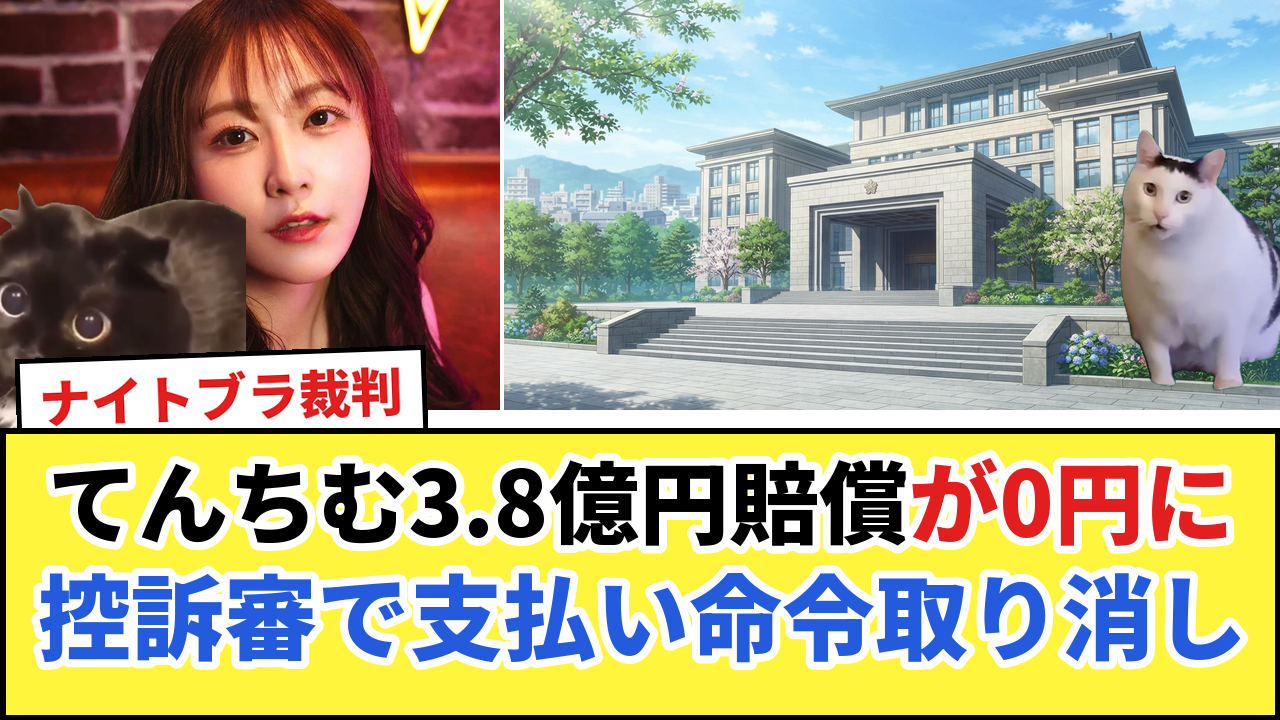
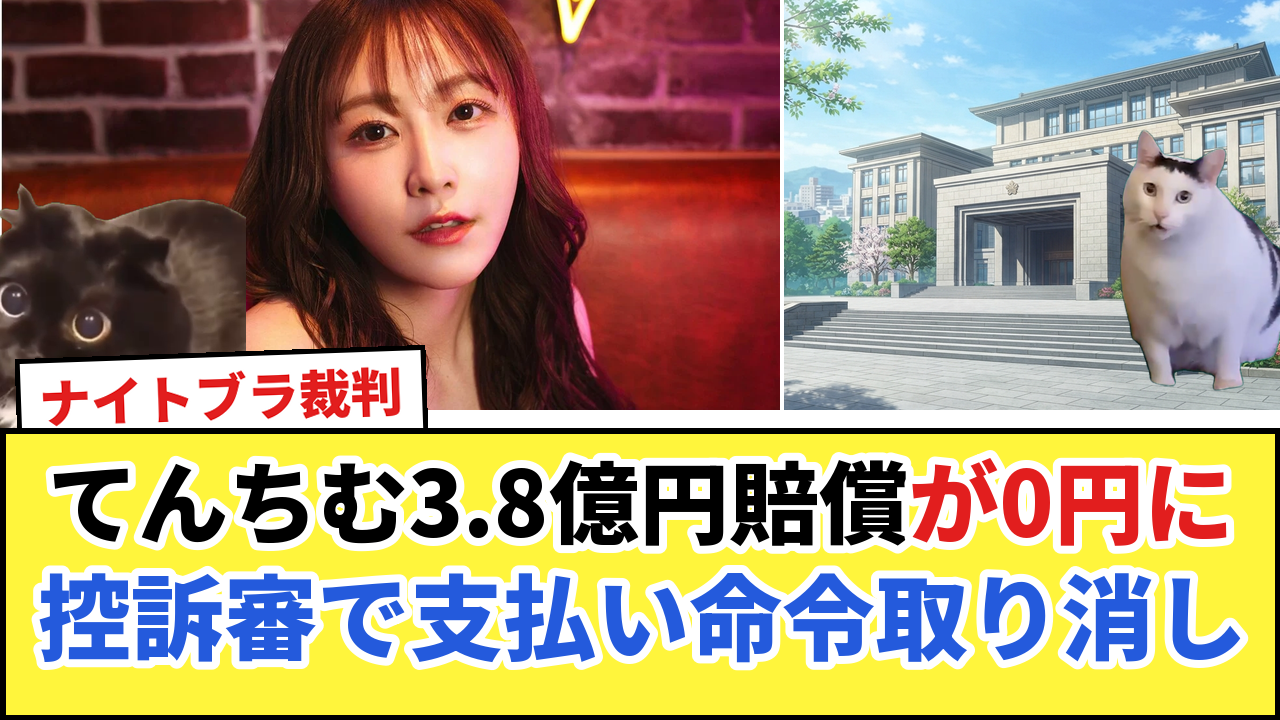
16_tenchim thumbnail A: larger photo area
Claude-Session: https://claude.ai/code/session_011g9CsrfFD5YswfNSvNDW39

diff --git a/catmeme/make_thumb_long_ref.py b/catmeme/make_thumb_long_ref.py
@@ -101,11 +101,12 @@ def save(img, name):
     print("->", p)
 
 
-def type_a(name, left_bg, right_bg, left_cat, right_cats, tag, line1, line2):
+def type_a(name, left_bg, right_bg, left_cat, right_cats, tag, line1, line2, split=500):
+    """split＝左の写真の幅（人物の写真を大きく見せたい時は広げる）。"""
     img = Image.new("RGBA", (W, H), WHITE)
     top_h = 410
-    img.alpha_composite(fill_photo(left_bg, 500, top_h, cx=0.5), (0, 0))
-    img.alpha_composite(fill_photo(right_bg, W - 504, top_h), (504, 0))
+    img.alpha_composite(fill_photo(left_bg, split, top_h, cx=0.5), (0, 0))
+    img.alpha_composite(fill_photo(right_bg, W - split - 4, top_h), (split + 4, 0))
     put_cat(img, *left_cat)
     for c in right_cats:
         put_cat(img, *c)
@@ -282,7 +283,7 @@ def tenchim():
            ("surprise_big_pupils_cat", 0.6, 90, 470, 300, False),
            [("huh_huh_cat", 1.0, 1130, 410, 300, True)],
            "ナイトブラ裁判",
-           [("てんちむ3.8億円賠償", BLACK), ("が0円に", RED)], [("控訴審で支払い命令取り消し", BLUE)])
+           [("てんちむ3.8億円賠償", BLACK), ("が0円に", RED)], [("控訴審で支払い命令取り消し", BLUE)], split=780)
     type_b("16_tenchim_ref_b.png",
            [("bg82_tenchim_feather", []),
             ("bg87_refund_money", [("surprise_big_pupils_cat", 0.6, 160, 470, 340, False)]),
